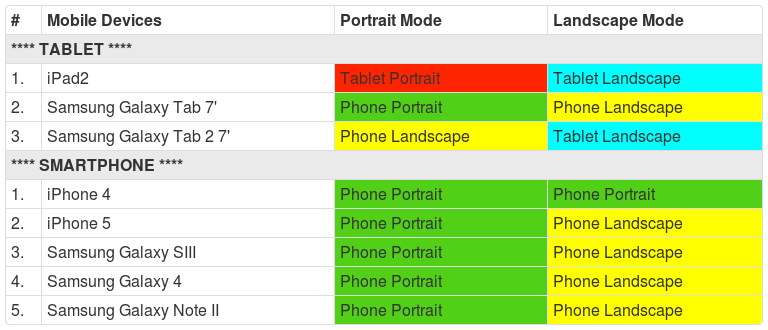
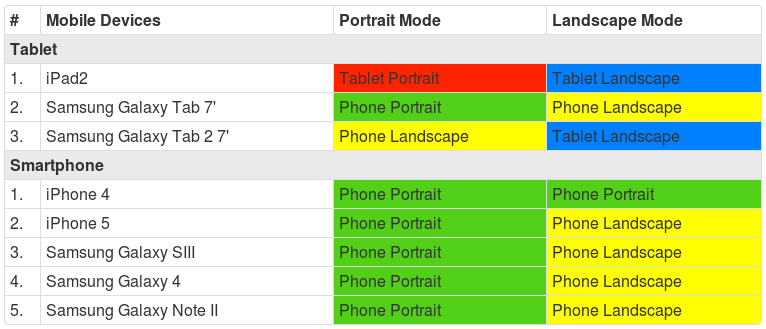
Fix readme and remove comment.

diff --git a/css/responsive.css b/css/responsive.css
@@ -9,25 +9,8 @@
 
 
 /*****************************************************************************
-Note
-----
-
-    IPAD 2
-    - landscape mode: 979px < width < 1200px 
-    - portrait  mode: 768px < width <= 979px 
-
-    IPHONE 4
-    - landscape mode: 480px <= width 
-    - portrait  mode: 480px <= width 
-
-    S3
-    - landscape mode: 480px < width <= 767px
-    - portrait  mode:         width <= 480px 
-
-
 Available Classes
 -----------------
-
     * .visible-large-screen
     * .visible-tablet-landscape
     * .visible-tablet-portrait

diff --git a/README.md b/README.md
@@ -1,7 +1,13 @@
 Responsive CSS
 ==============
 
-Common css classes for responsive design (adopted from [Twitter Bootstrap](http://twitter.github.io/bootstrap/scaffolding.html#responsive)).
+A set of utility CSS classes for responsive web design (adopted from [Twitter Bootstrap](http://twitter.github.io/bootstrap/scaffolding.html#responsive)). It introduces 5 screen size categories: 
+
+* Large Screen
+* Tablet Landscape
+* Tablet Portrait
+* Phone Landscape
+* Phone Portrait
 
 Usage
 -----
@@ -109,22 +115,13 @@ Screen Size Category Definition
 * Phone Portrait<br />
     > max-width: 480px
 
-Test Result for Common Mobile Devices
--------------------------------------
+Test Result
+-----------
 
 ![Test Result](img/test_result.png)
 
-Mobile Device           |Landscape Mode     |Portrait Mode
-------------------------|-------------------|-------------
-iPad2                   |Tablet Landscape   |Tablet Portrait
-Samsung Galaxy Tab      |Phone Landscape    |Phone Portrait
-Samsung Galaxy Tab 2    |Tablet Landscape   |Phone Landscape
-iPhone4                 |Phone Portrait     |Phone Portrait
-iPhone5                 |Phone Landscape    |Phone Portrait
-Samsung Galaxy SIII     |Phone Landscape    |Phone Portrait
-Samsung Galaxy SIV      |Phone Landscape    |Phone Portrait
-Samsung Galaxy Note II  |Phone Landscape    |Phone Portrait
-
+* On tablet group, only <strong>iPad 2</strong> falls <strong>perfectly</strong> under Tablet Portrait & Tablet Landscape category
+* On smartphone group, only <strong>iPhone 4</strong> falls <strong>incorrectly</strong> where its landscape mode still falls under Phone Portrait category
 
 <code>visible-*</code> Classes
 ------------------------------
